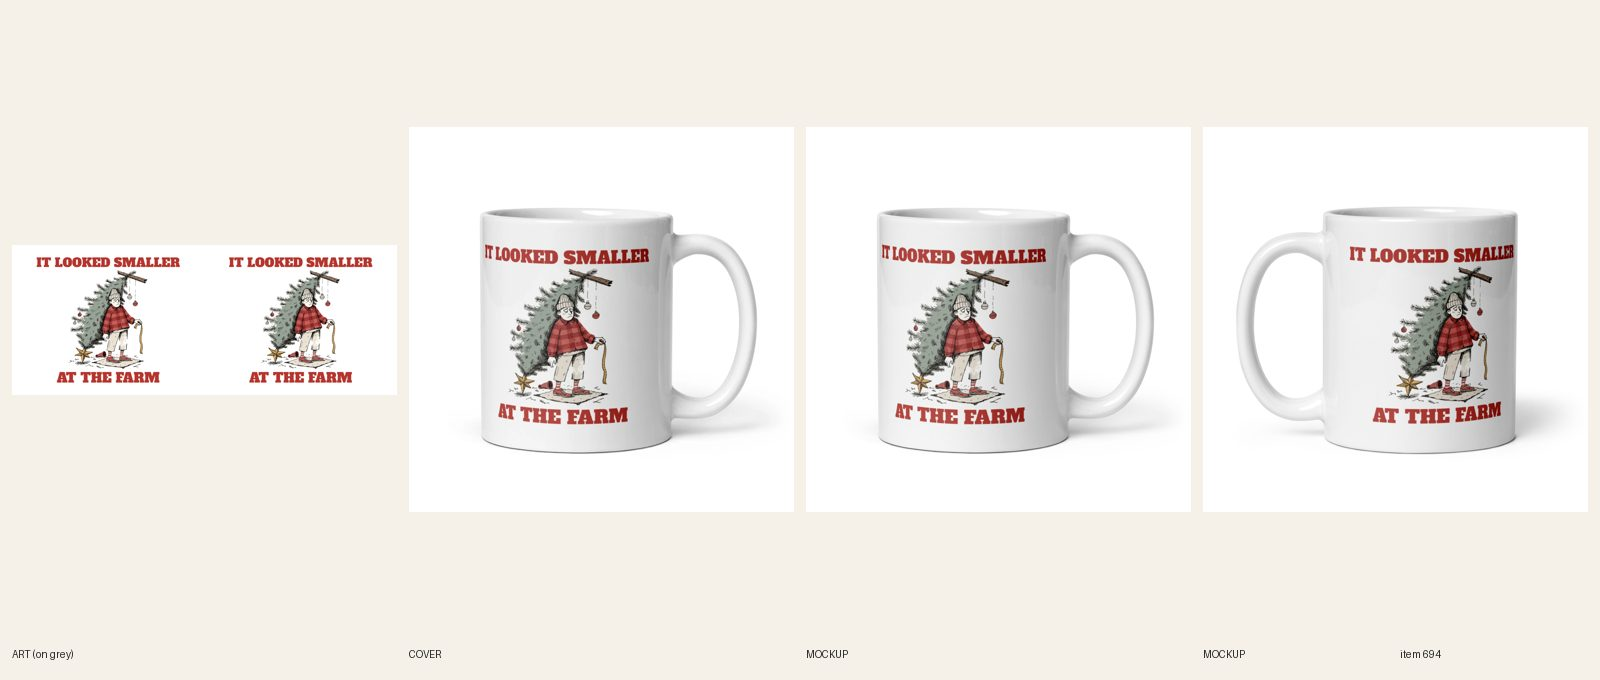
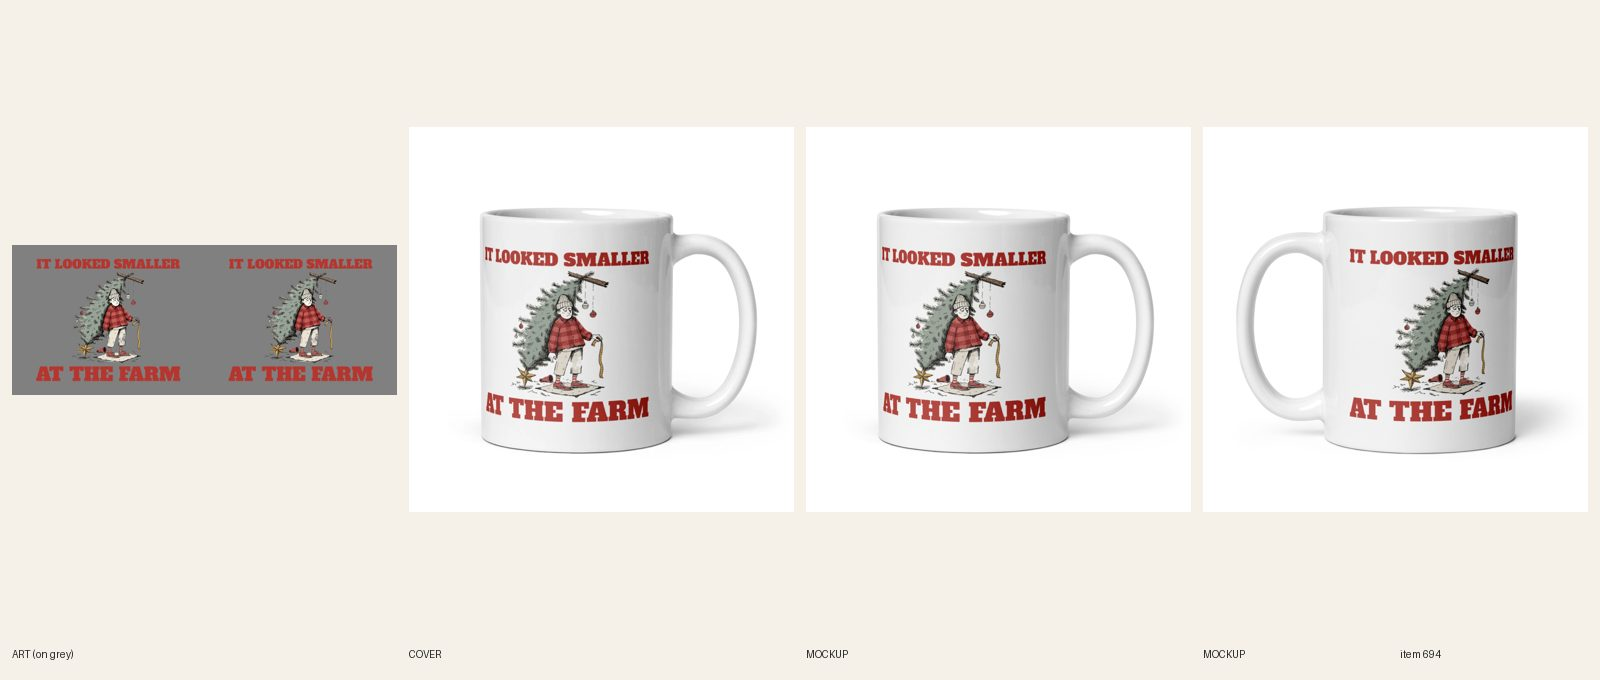
[B] redo 694 mug: punch as wide as headline

diff --git a/scripts/b-mug-redo.py b/scripts/b-mug-redo.py
@@ -1,0 +1,27 @@
+#!/usr/bin/env python3
+"""b-mug-redo.py <id> <sync product id> <printful file id> <fal url of file>: relink an existing mug's wrap file (Printful #19, variant 1320) and make every mockup view -> /tmp/mug-<id>-<n>.jpg"""
+import os, sys, json, time, urllib.request, urllib.error
+n, spid, fid, furl = sys.argv[1:5]; T = os.environ['PRINTFUL_TOKEN']
+def call(m, p, b=None):
+    for _ in range(10):
+        try:
+            return json.load(urllib.request.urlopen(urllib.request.Request('https://api.printful.com' + p, method=m, data=json.dumps(b).encode() if b is not None else None,
+                headers={'Authorization': 'Bearer ' + T, 'Content-Type': 'application/json', 'User-Agent': 'gtc-builder'}), timeout=90))['result']
+        except urllib.error.HTTPError as e:
+            if e.code == 429: time.sleep(int(e.headers.get('Retry-After', 30)) + 2); continue
+            raise Exception(f'{e.code} {e.read()[:400]}')
+pos = {'area_width': 2700, 'area_height': 1050, 'width': 2700, 'height': 1050, 'top': 0, 'left': 0}
+sv = call('GET', f'/sync/products/{spid}')['sync_variants'][0]
+call('PUT', f'/sync/variant/{sv["id"]}', {'variant_id': 1320, 'files': [{'type': 'default', 'id': int(fid), 'position': pos}]})
+chk = call('GET', f'/sync/products/{spid}')['sync_variants'][0]; print('synced', chk['synced'], [(f['type'], f['id']) for f in chk['files'] if f['type'] != 'preview'])
+t = call('POST', '/mockup-generator/create-task/19', {'variant_ids': [1320], 'format': 'jpg', 'files': [{'placement': 'default', 'image_url': furl, 'position': pos}]})
+while True:
+    time.sleep(8); r = call('GET', f'/mockup-generator/task?task_key={t["task_key"]}')
+    if r['status'] == 'completed': break
+    if r['status'] == 'failed': sys.exit('failed ' + json.dumps(r)[:400])
+urls = []
+for m in r['mockups']:
+    urls.append(m['mockup_url']); urls += [e['url'] for e in m.get('extra', [])]
+for i, u in enumerate(urls): urllib.request.urlretrieve(u, f'/tmp/mug-{n}-{i}.jpg')
+print(len(urls), 'views')
+json.dump(urls, open(f'/tmp/mugviews-{n}.json', 'w'))

diff --git a/docs/pipeline/694-christmas-tree-mug-it-looked-smaller-at-the-farm.md b/docs/pipeline/694-christmas-tree-mug-it-looked-smaller-at-the-farm.md
@@ -1,4 +1,4 @@
-status: REDO
+status: REVIEW
 lane: B
 type: addon
 id: 694
@@ -30,3 +30,4 @@ kd: 39
 - 2026-10-19 10:33 UTC [B]: built. DRAFT gid 15366978863408, Printful #19 11 oz mug (1320) sync 482984588, 1/1 synced on file 1089478907 (2700x1050 transparent wrap, two lockup copies at 1/4 and 3/4, scripts/mug-print.py, designs/m694/spec.json). Source art pulled from live file 1088710447; words re-set in Alfa Slab One in the source red #b5362f (no cream keyline), headline 1006 px wide, AT THE FARM 722 px; light file, all words dark. Both handle-left and handle-right mockups read. Cost $6.07, $17.99, no compare-at (profit ~$11.9 before shipping). Category hg-11-10-5-5. Keyword recorded. FAQ 6 questions 54-60 words, 720+ words. Cover: Printful #19 handle-right mockup, no person, flat. Etsy duplicate check not possible offline: director eyeball. fal 0.
 - 2026-10-19 11:20 UTC director: APPROVED on docs/review/694.jpg (dark red slab words on the white mug, both copies read, art pulled from A #540). Copy fixed in Shopify and designs/m694/copy.json (R8.3): it said a 'knocked-over pot', 'one sad ornament' and 'striped socks'; the art shows a tipped-over red tree stand, a few crooked ornaments and a top bent against a ceiling beam (as the source tee's copy says). Title, tags, $17.99 with no compare-at, SEO lengths checked. Stays DRAFT at status REVIEW until RESUME.
 - 2026-10-20 18:45 UTC director: REDO (still DRAFT). R3.7.8: AT THE FARM (the punch) is about 65% of IT LOOKED SMALLER's width on every mug view. Set AT THE FARM at least as wide as the headline (it may grow taller), on both copies of the wrap. New mockups + sheet.
+- 2026-10-21 05:43 UTC [B]: REDO done (3.7.8): AT THE FARM now set at 1014 px, headline IT LOOKED SMALLER 1006 px (punch 101% of the headline), both copies of the wrap, art shrunk to 640 px tall to make room (lockup 855 of 1050 px). New wrap file 1090935994 relinked on the single variant (R7.7, synced True, sync 482984588), mockups handle-right/left/front checked: both copies read upright. Shopify media replaced in place (new handle-right mockup attached to the variant, old one deleted), cover webp replaced, designs/m694/spec.json updated, sheet docs/review/694.jpg. Source art from live file 1088710447 (motif crop). fal $0.
